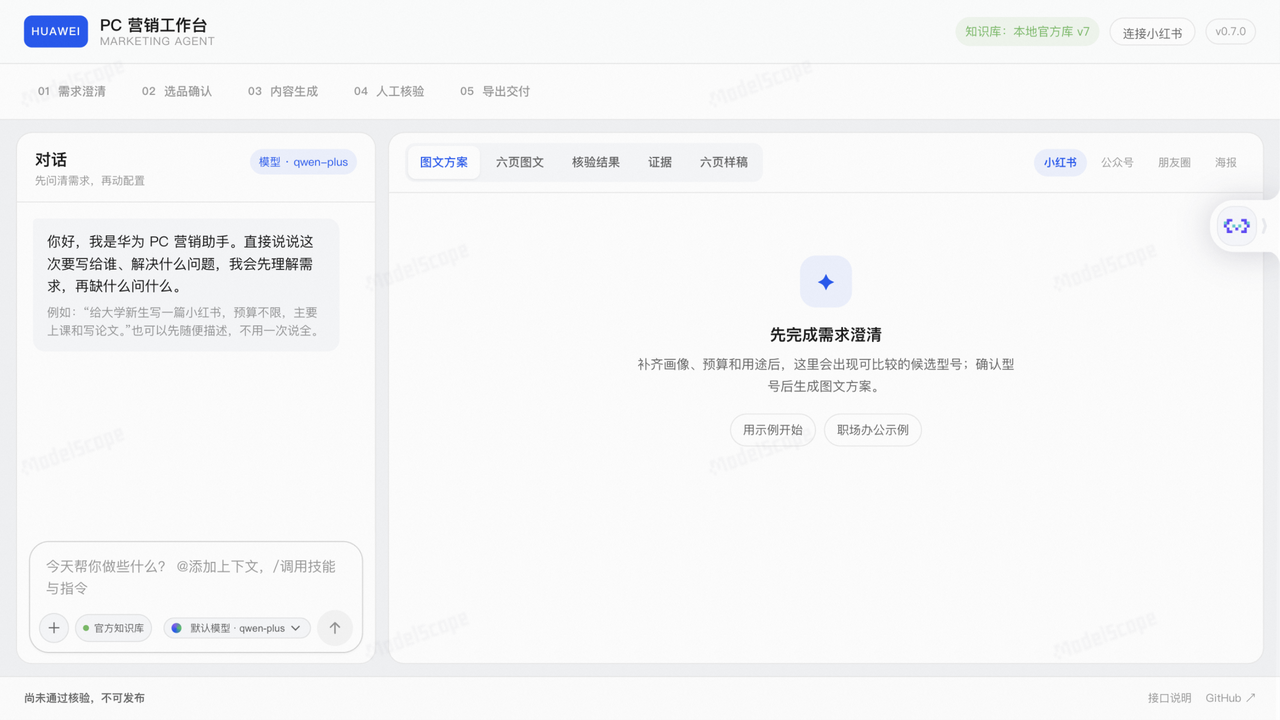
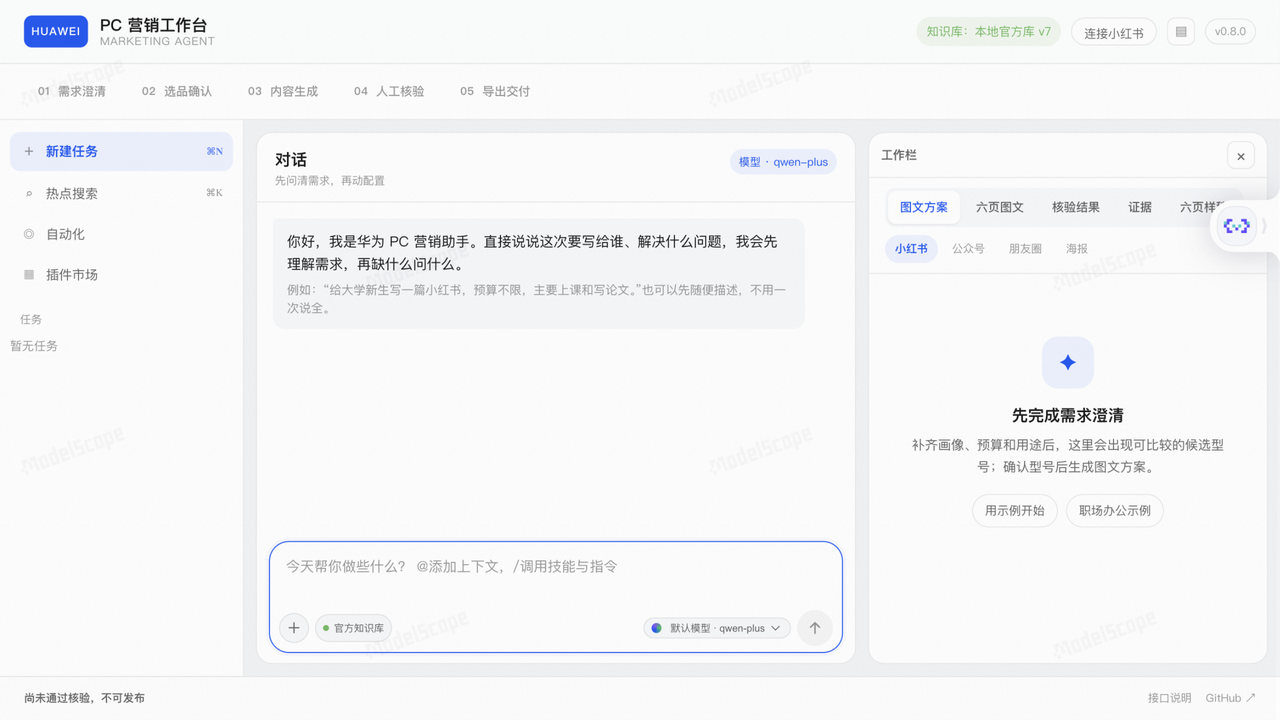
docs: record 0.8.0 live layout and hotspot verification (#25)
- new workbench screenshot with task sidebar, chat and collapsible work panel
- live verification of hotspot search, use-hotspot and state restore

diff --git a/README.md b/README.md
@@ -20,7 +20,7 @@
 
 ![线上工作台](app/static/samples/live-workbench.png)
 
-> 截图来自 Public / Running 的魔搭实例：自由输入对话框、输入区内模型选择、五步进度、候选/六页画布和证据区。完整验收记录见 [`docs/12_线上验证记录.md`](docs/12_线上验证记录.md)。
+> 截图来自 Public / Running 的魔搭实例：左侧任务栏、热点搜索入口、中间自由输入对话框和可折叠右侧工作栏。完整验收记录见 [`docs/12_线上验证记录.md`](docs/12_线上验证记录.md)。
 
 ### 小红书扫码热点（内部服务）
 
